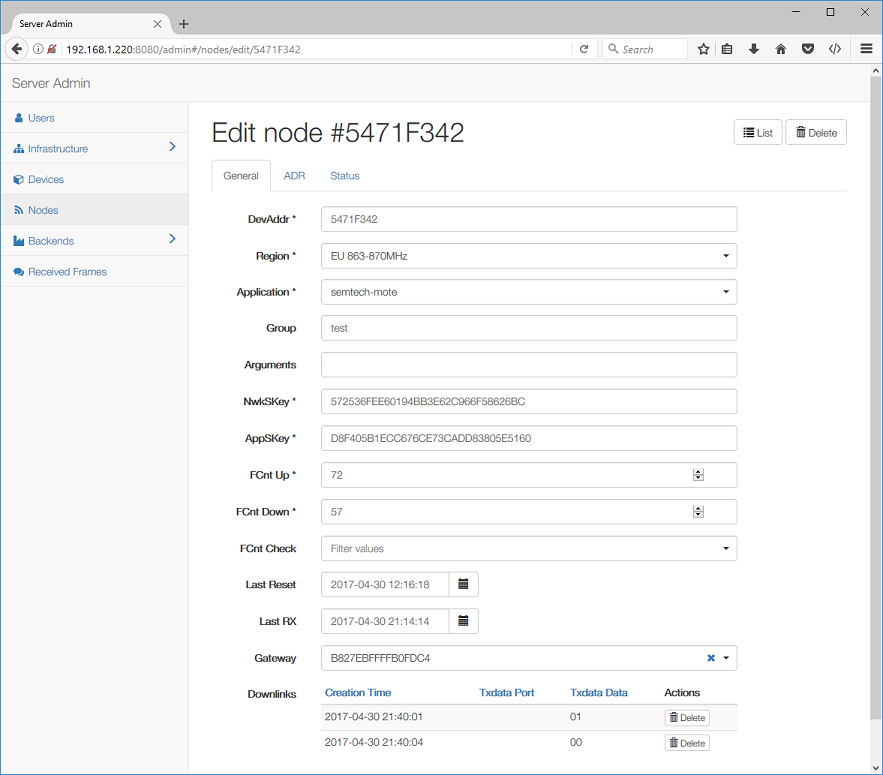
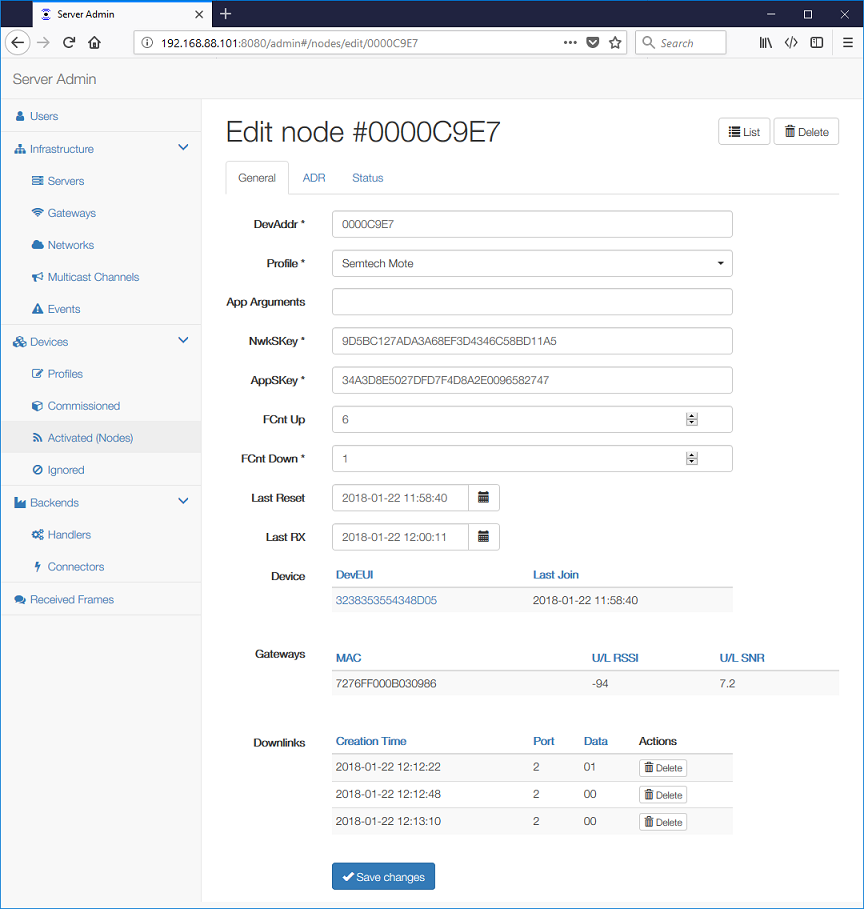
Issue #275: Update screenshots

diff --git a/doc/Devices.md b/doc/Devices.md
@@ -104,8 +104,6 @@ over-the-air activation (OTAA). The active network nodes that either have
 already joined or have been activated-by-personalization (ABP) are listed on the
 [Nodes](Nodes.md) page.
 
-![alt tag](https://raw.githubusercontent.com/gotthardp/lorawan-server/master/doc/images/admin-device.png)
-
 For each device, which may connect to your network, you can set:
  - **DevEUI** of the device
  - **Profile** that this device uses
@@ -146,6 +144,8 @@ transmitted. Class C downlinks are not listed there as these are scheduled immed
 To clone an existing node, simply save it under a different *DevAddr*.
 
 ### ADR
+
+![alt tag](https://raw.githubusercontent.com/gotthardp/lorawan-server/master/doc/images/admin-adr.png)
 
 Each Node follows the ADR Mode defined in the Device Profile (see above). The
 Node ADR parameters include:

diff --git a/doc/Administration.md b/doc/Administration.md
@@ -19,6 +19,8 @@ not be displayed, but other Web Admin functions and the REST API will work fine.
 The management web-pages are available under `/admin`. It is a wrapper around
 the REST API described below.
 
+![alt tag](https://raw.githubusercontent.com/gotthardp/lorawan-server/master/doc/images/admin-dashboard.png)
+
 The server Dashboard shows:
  * Rolling timeline displaying recent Frames and [Events](Events.md#events).
  * Server information and a list of [Gateways](Infrastructure.md#gateways),
